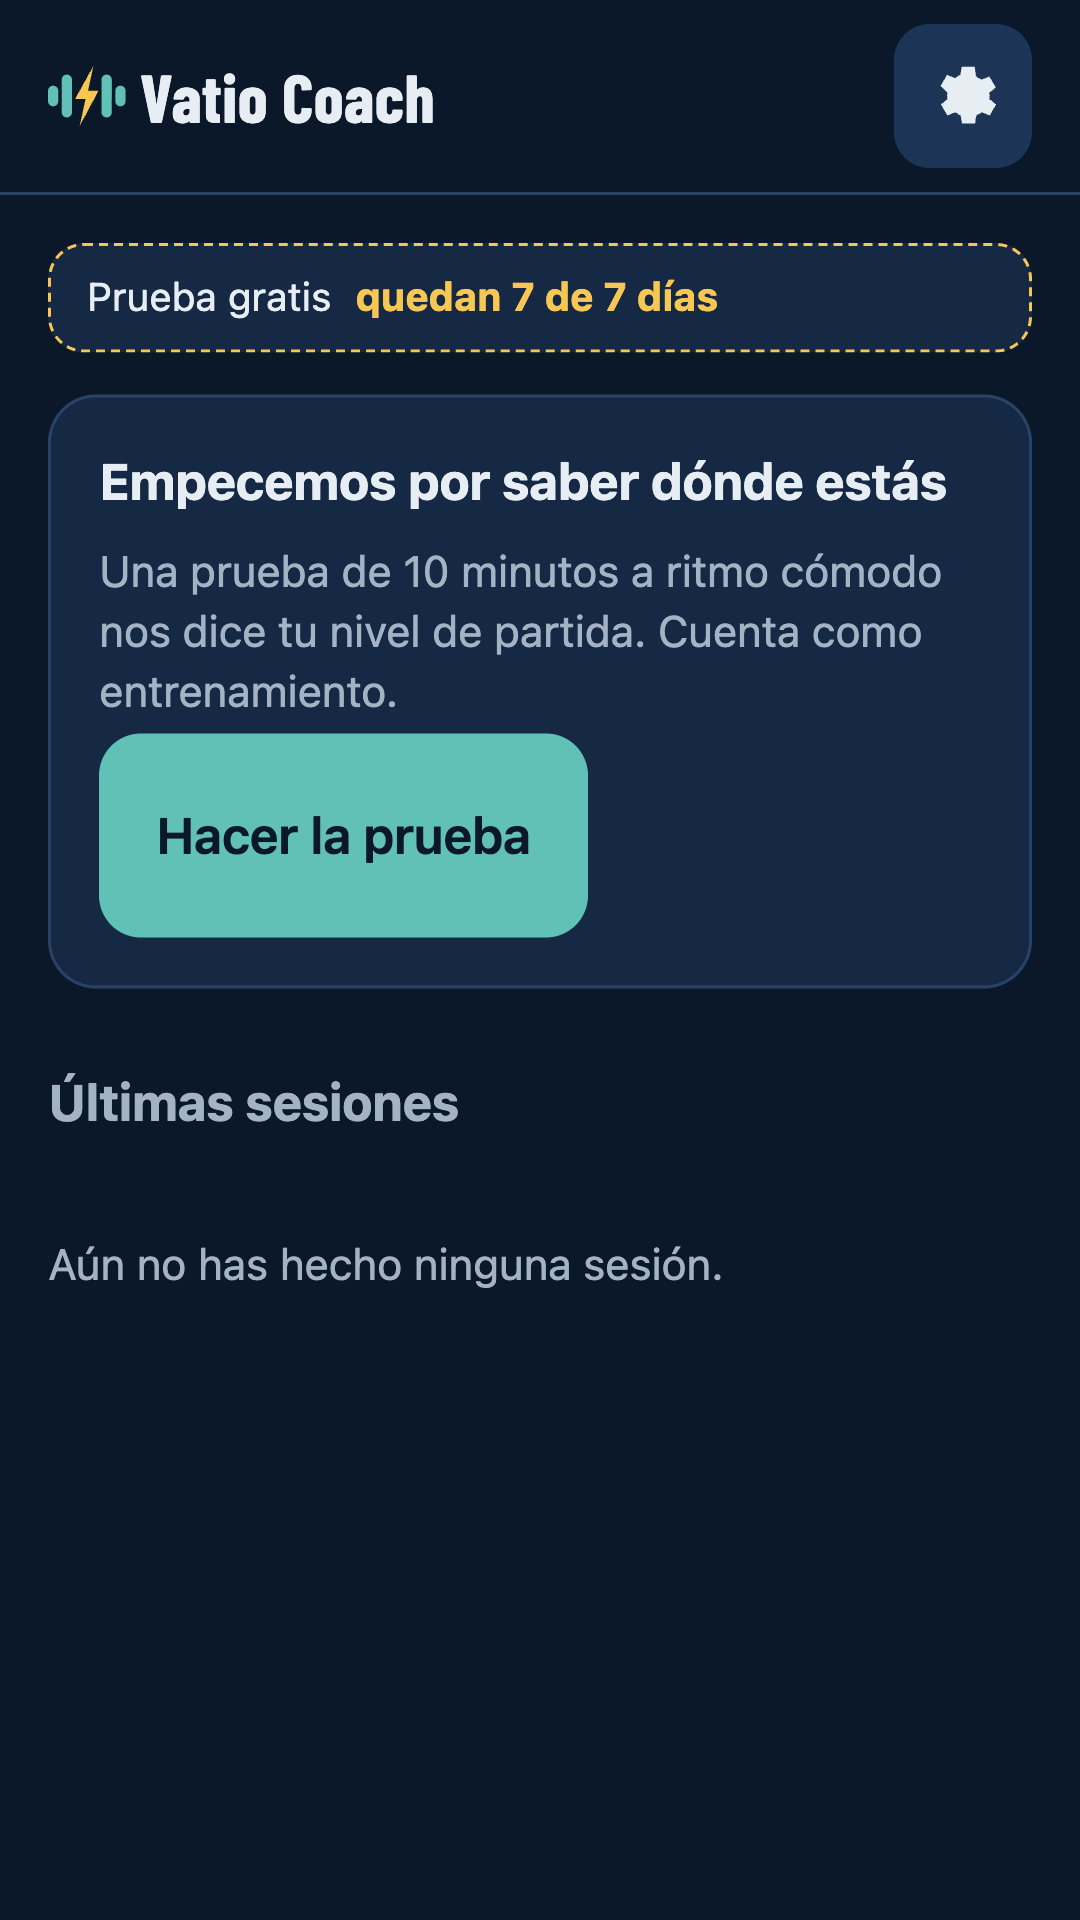
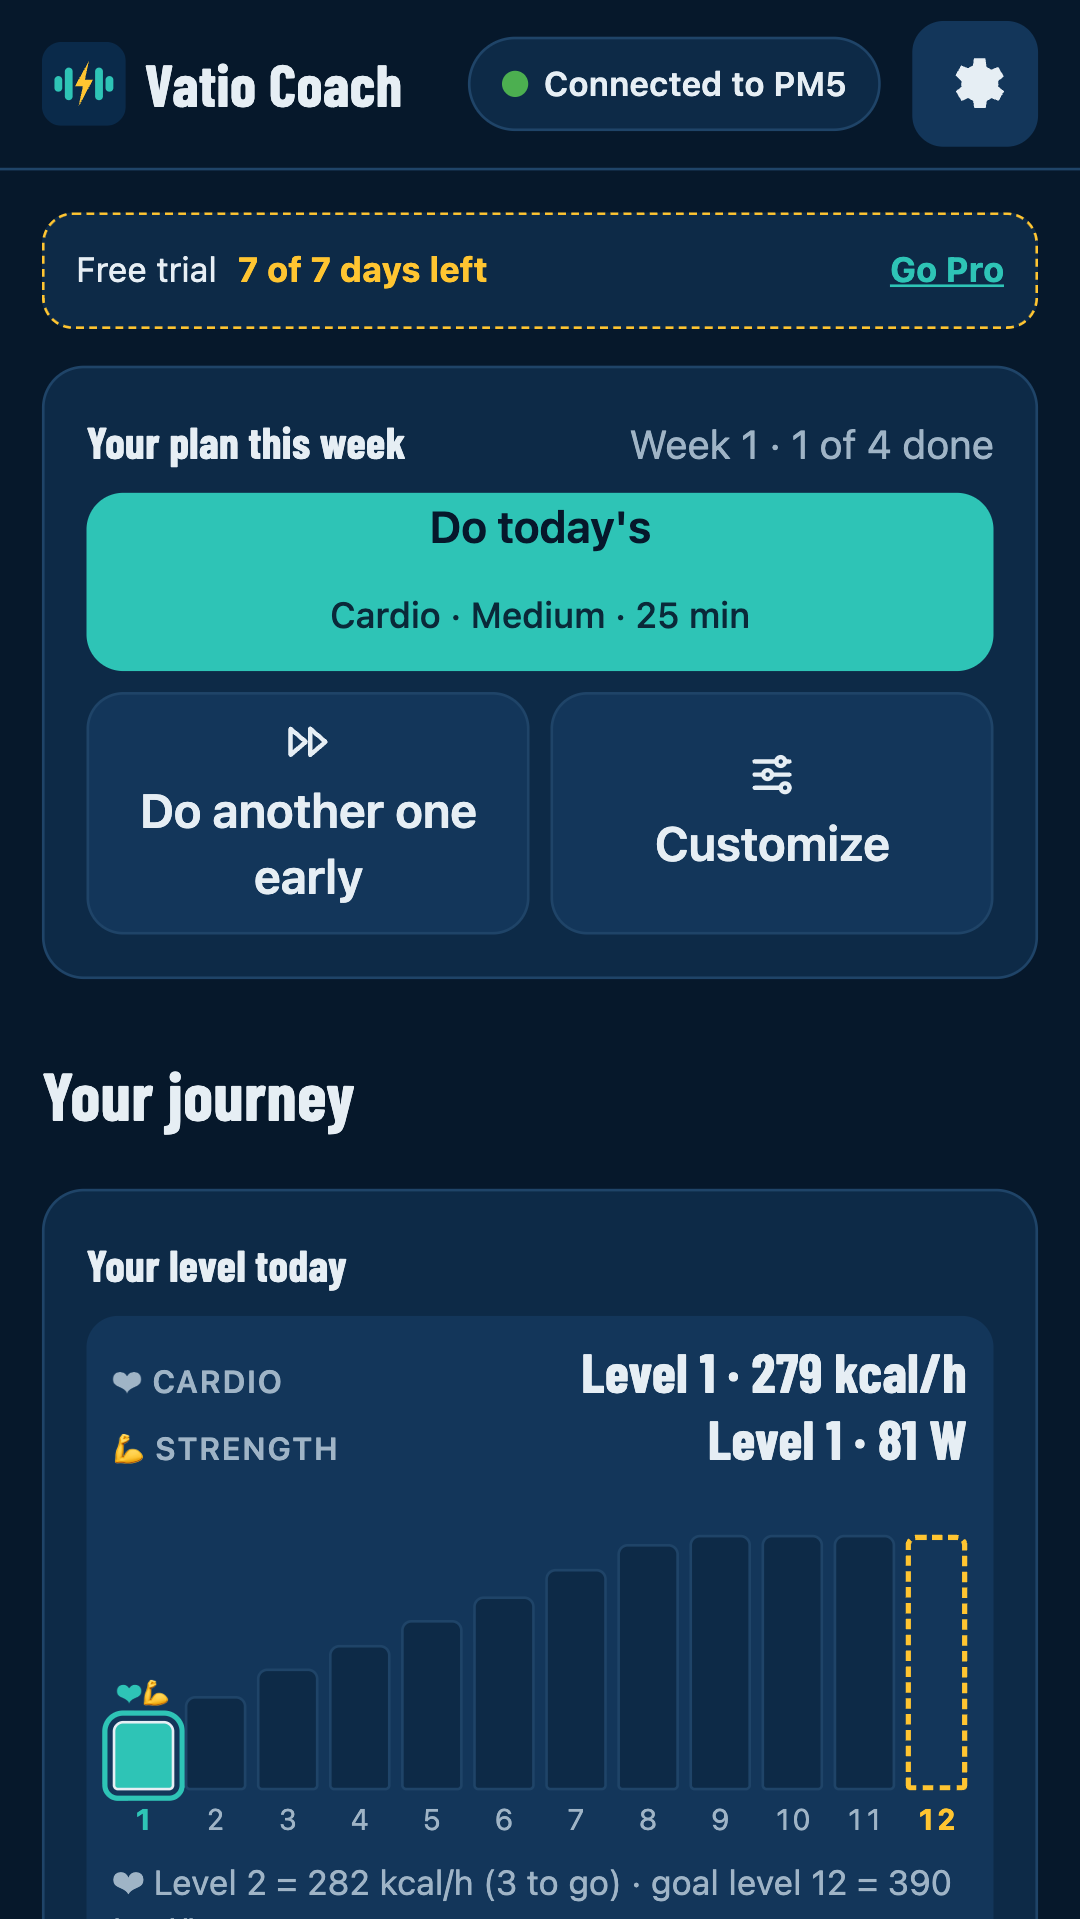
feat(portfolio): new-design Vatio Coach screenshots

diff --git a/CLAUDE.md b/CLAUDE.md
@@ -178,21 +178,18 @@ inline it into the public bundle. The browser form does not need it.
 
 ## Estado
 
-**2026-11-11**
+**2026-11-26**
 
-**`https://www.claudiavasquez.dev` works** (Cloudflare proxy on `www`).
+Done this session (branch `sesion/vatio-shots`, merged into `dev`):
 
-Hecho en esta sesión:
+- Vatio Coach slider images (`public/images/projects/vatiocoach-{home,placement,session,summary}.png`)
+  replaced with the new-design English screenshots, the same ones live on
+  Google Play en-US (source: `rowing-coach/store/screenshots/en/`). The
+  thumbnail `vatiocoach-feature.png` was already identical to the Play
+  feature graphic.
 
-- GitHub still issued the Pages certificate for the apex only, so `www` was
-  proxied in Cloudflare via the API. Checked in the Playwright test browser:
-  `https://www`, `http://www` and the apex all land on
-  `https://claudiavasquez.dev/` with 200.
-- Earlier the same day, re-adding the Pages domain left the site on GitHub's
-  404 until the deploy was re-run (gotcha recorded above).
+Pending:
 
-Pendiente:
+- [ ] Publish to `main` (GitHub Pages): needs Claudia's approval.
 
-- Nothing open.
-
-Siguiente paso: none.
+Next step: merge `dev` into `main` once Claudia approves.
